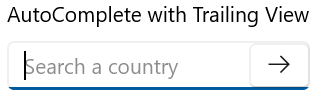
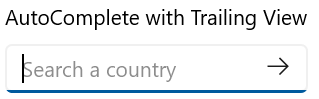
WinUI-2482 Trailing view image changed in AutoComplete and ComboBox.

diff --git a/winui/AutoComplete/Leading-and-Trailing-view.md b/winui/AutoComplete/Leading-and-Trailing-view.md
@@ -44,12 +44,14 @@ The below code shows how to include the `Trailingview` in `AutoComplete`.
 <editors:SfAutoComplete Header="AutoComplete with Trailing View"
                         PlaceholderText="Search a country">
         <editors:SfAutoComplete.TrailingView>
-                <Button>
+              <Button Style="{ThemeResource AlternateCloseButtonStyle}"
+                      Height="30"
+                      AllowFocusOnInteraction="False">
                     <Viewbox Height="16"
                              Width="16">
                         <FontIcon Glyph="&#xEBE7;" />
                     </Viewbox>
-                </Button>
+              </Button>
         </editors:SfAutoComplete.TrailingView>
 </editors:SfAutoComplete>
 

diff --git a/winui/ComboBox/Leading-and-Trailing-View.md b/winui/ComboBox/Leading-and-Trailing-View.md
@@ -44,7 +44,8 @@ The below code shows how to include the `Trailingview` in `ComboBox`.
 <editors:SfComboBox Header="ComboBox with Trailing View"
                     PlaceholderText="Search a country">
         <editors:SfComboBox.TrailingView>
-                <Button>
+                <Button BorderThickness="0"
+                        Height="25">
                     <Viewbox Height="16"
                              Width="16">
                         <FontIcon Glyph="&#xEBE7;" />
